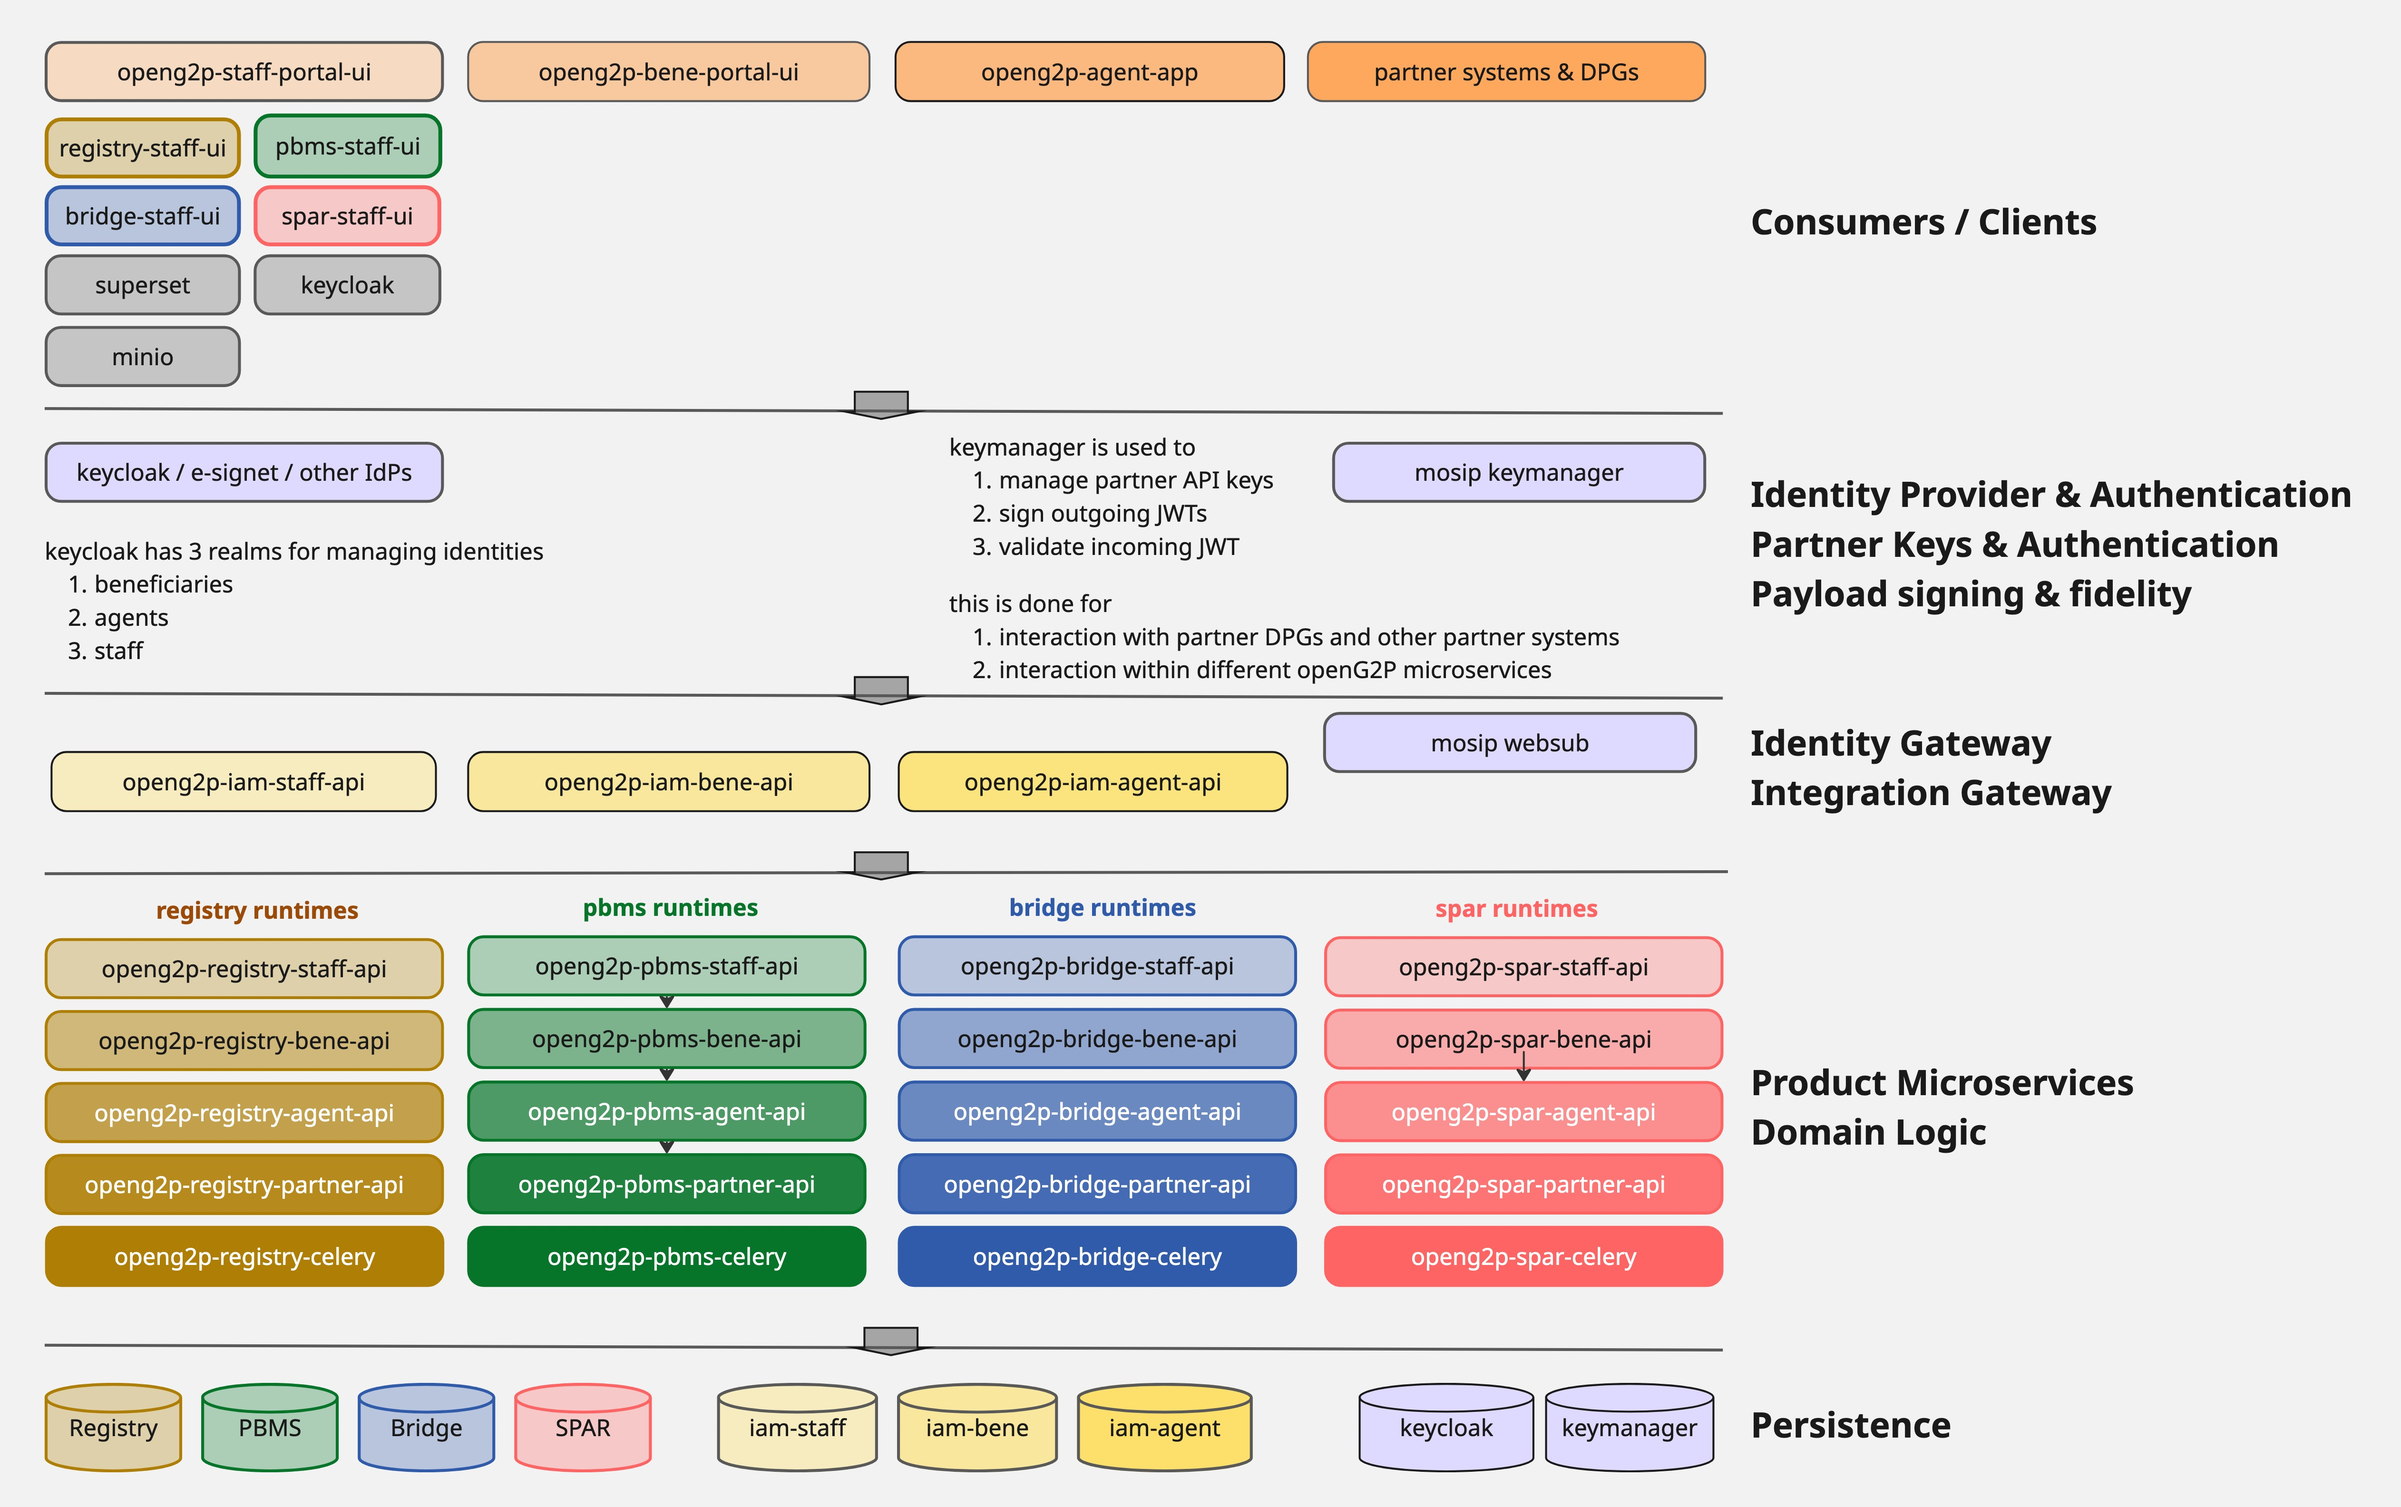
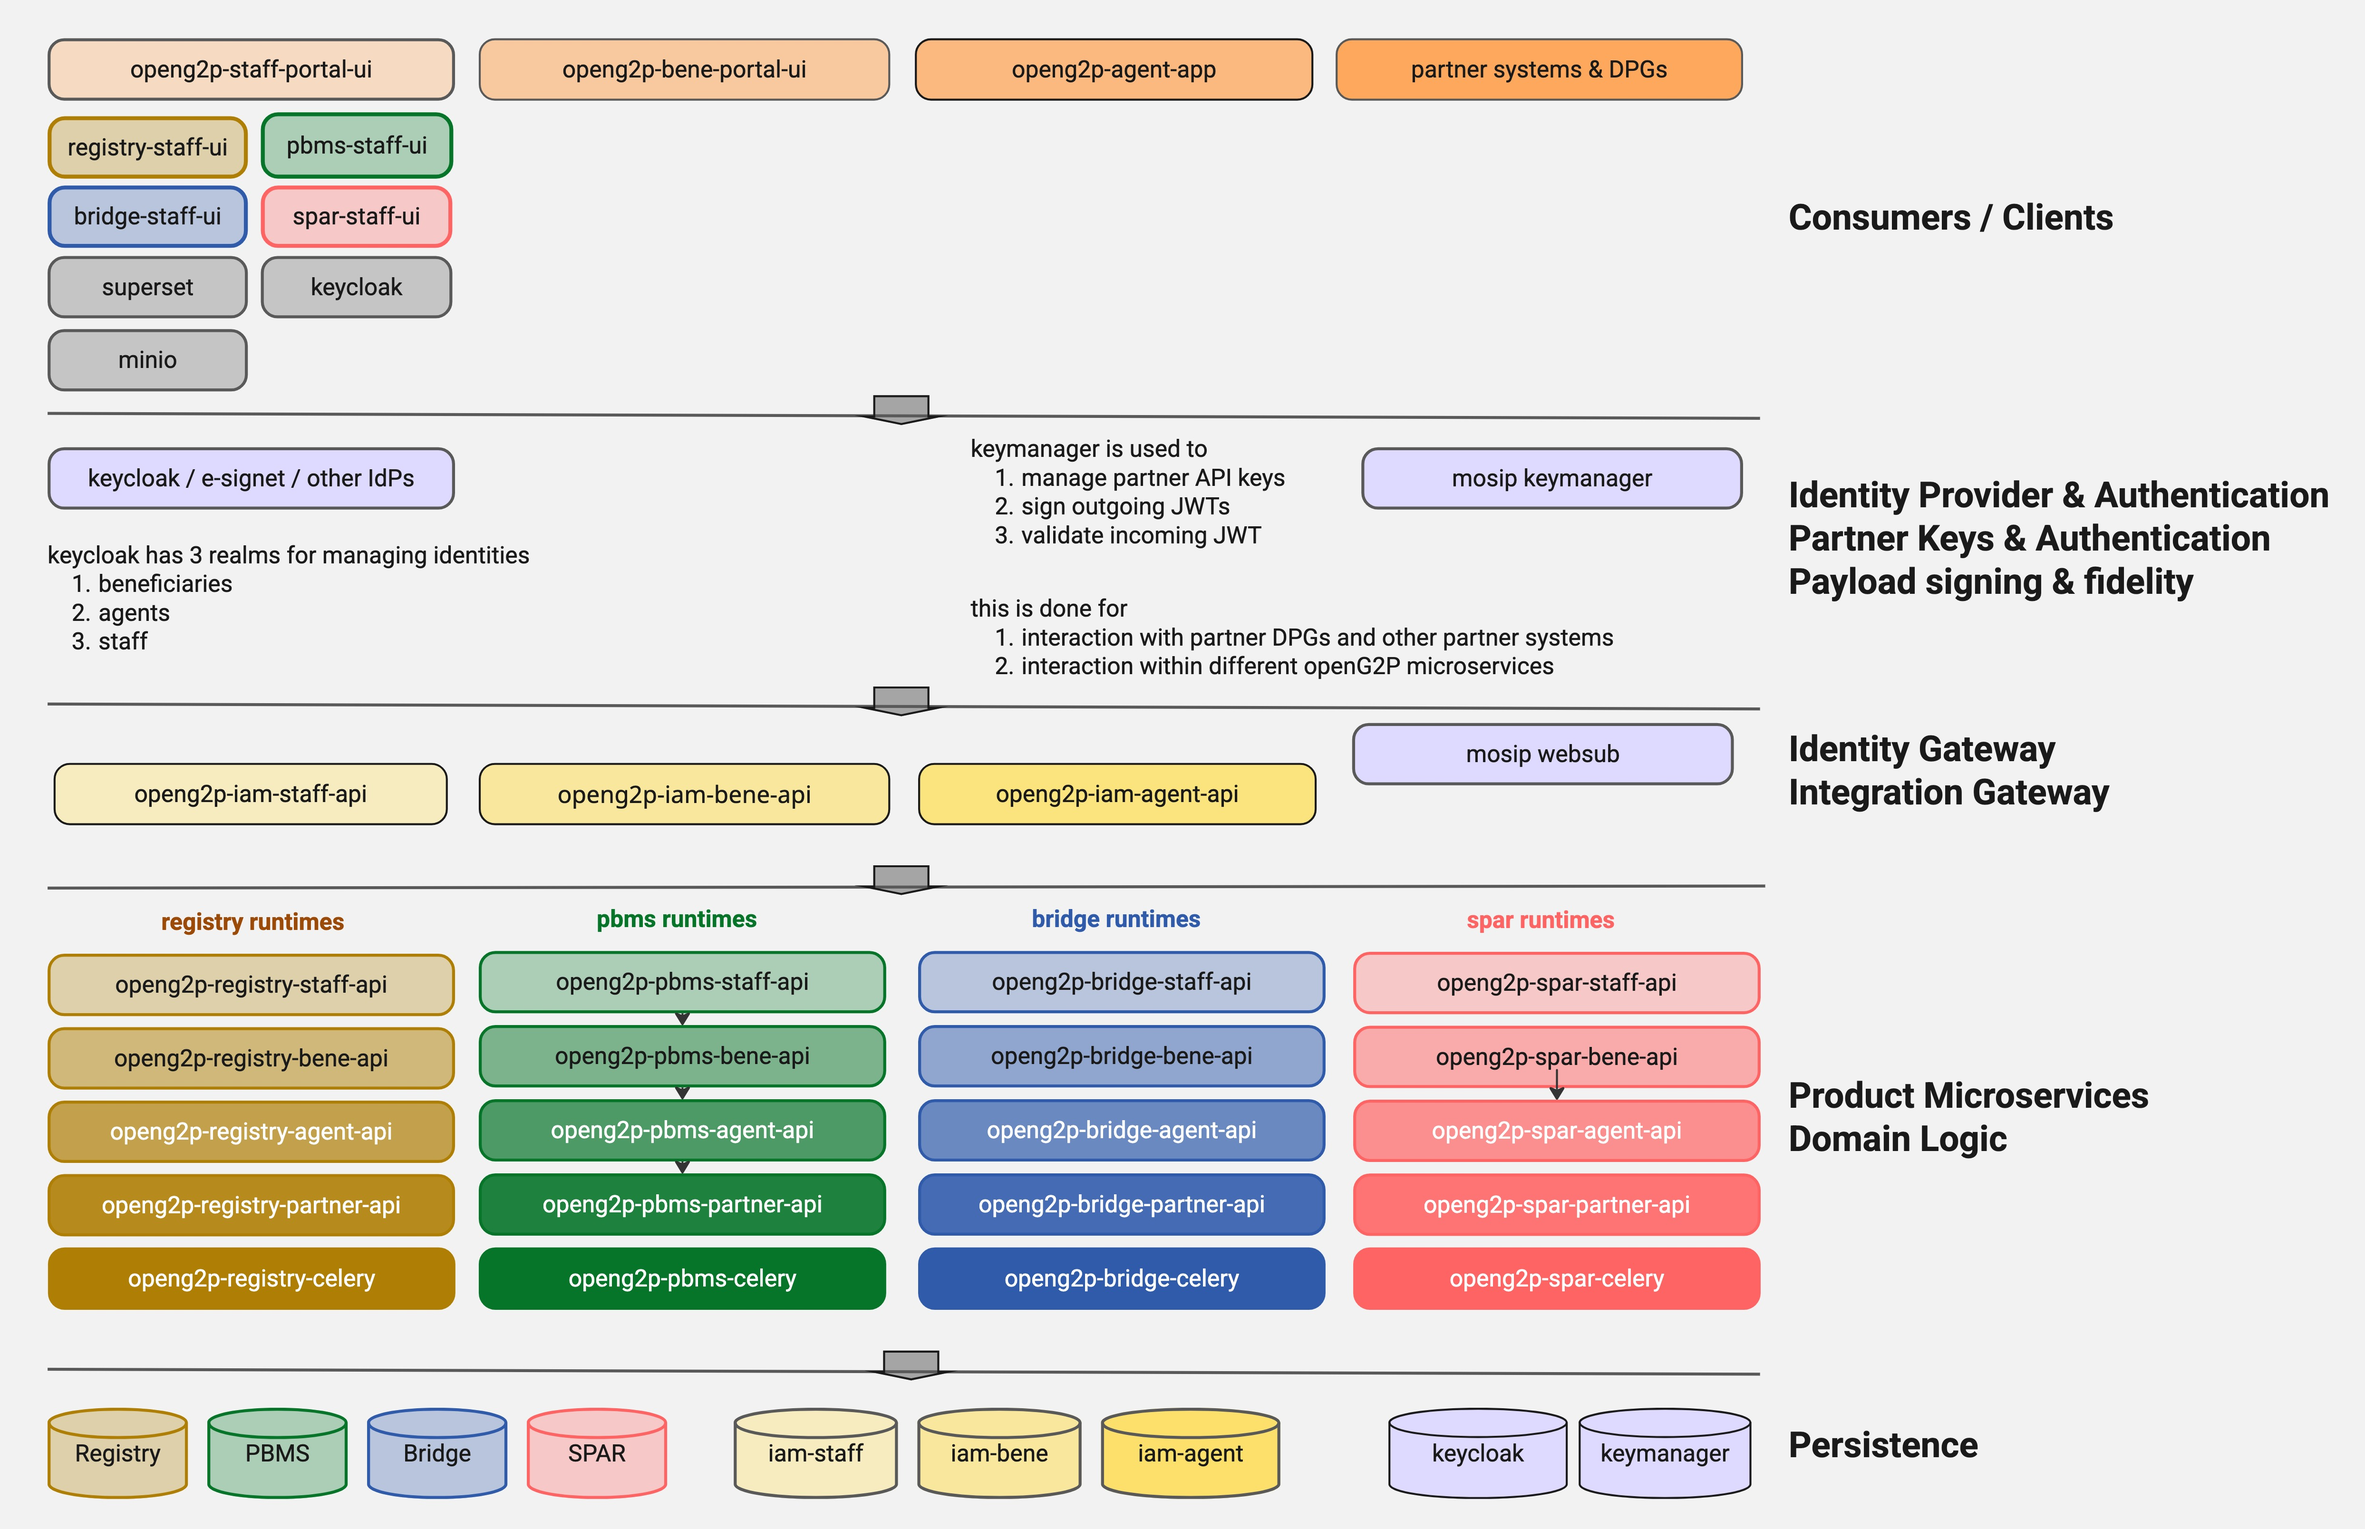
GITBOOK-1845: No subject

diff --git a/architecture/platform-tech-architecture.md b/architecture/platform-tech-architecture.md
@@ -19,4 +19,5 @@ layout:
 
 # Platform Tech Architecture
 
-<figure><img src="../.gitbook/assets/OpenG2P Tech Architecture.jpg" alt=""><figcaption></figcaption></figure>
+<div data-full-width="true"><figure><img src="../.gitbook/assets/OpenG2P Tech Architecture.jpg" alt="Tech Architecture of OpenG2P Platform"><figcaption><p>OpenG2P platform Tech Architecture</p></figcaption></figure></div>
+
